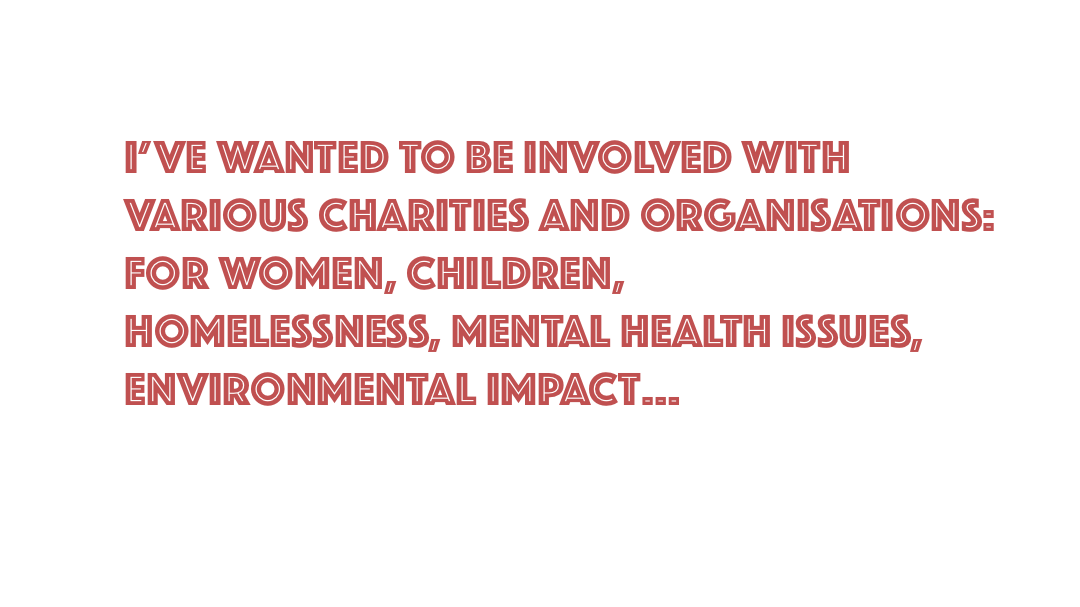
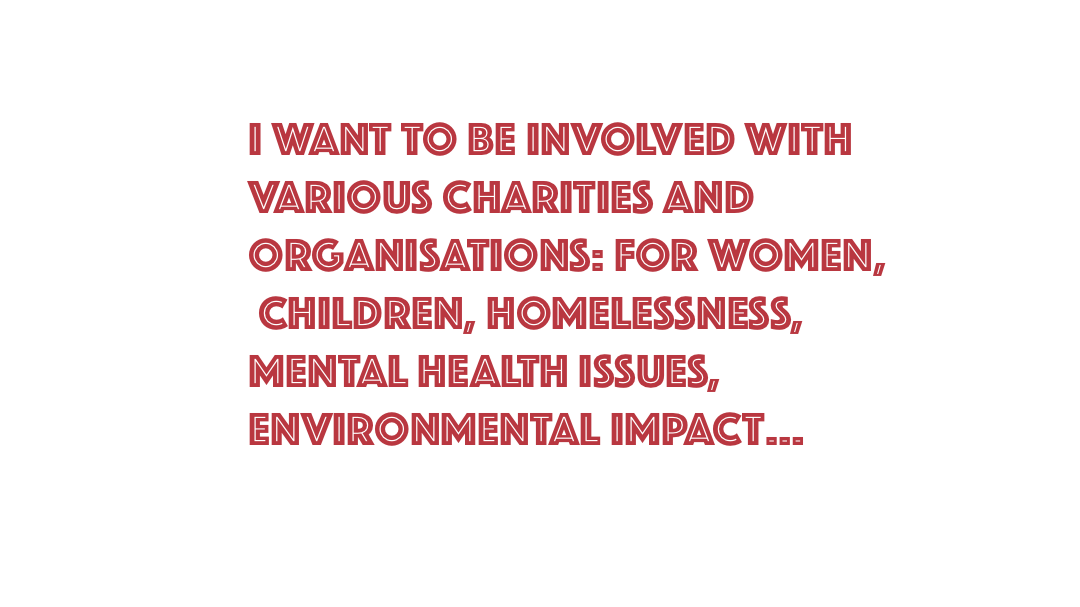
Alter text in slideshow

Changed region(s): [[0.0917, 0.1779, 0.9167, 0.7414]]

diff --git a/index.html b/index.html
@@ -44,13 +44,10 @@
         <img src="4.JPG" class="pics" />
       </div>
       <div class="mySlides fade">
-        <img src="text4.png" class="pics" />
+        <img src="text6.png" class="pics" />
       </div>
       <div class="mySlides fade">
         <img src="6.JPG" class="pics" />
-      </div>
-      <div class="mySlides fade">
-        <img src="text6.png" class="pics" />
       </div>
       <div class="mySlides fade">
         <img src="text7.png" class="pics" />
@@ -72,7 +69,6 @@
       <span class="dot" onclick="currentSlide(10)"></span>
       <span class="dot" onclick="currentSlide(11)"></span>
       <span class="dot" onclick="currentSlide(12)"></span>
-      <span class="dot" onclick="currentSlide(13)"></span>
     </div>
   </center>
   <script src="myScript.js"></script>
